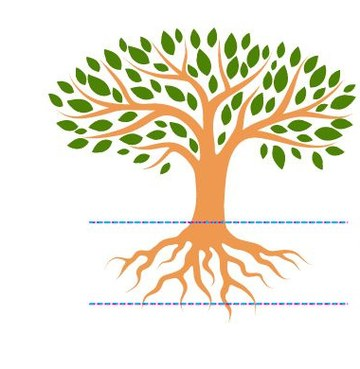
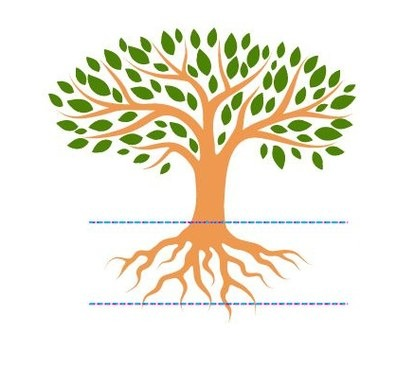
fix(pygmalion): 販売7月版の根っこ図を中央寄せ（説明会と同じ調整済み画像に差替）
右寄りの元画像(360x369)を、説明会で左右バランス調整済みの画像(413x369)に差替。
imgも340x304の中央表示に統一。UTAGE版も同期。

Changed region(s): [[0.0917, 0.0596, 1.0, 0.8645], [0.2139, 0.8049, 0.275, 0.8347], [0.2139, 0.5962, 0.275, 0.626]]

diff --git a/pygmalion-emiko-sales-202607/lp/index.html b/pygmalion-emiko-sales-202607/lp/index.html
@@ -117,7 +117,7 @@
 <section class="bg-white" id="urgency">
   <div class="container">
     <h2 class="section-title">世界で活躍できる「根っこ」は、<br><span class="teal">8歳までしか作れません</span></h2>
-    <img src="images/tree_growth.jpg" alt="子どもの成長を木に例えた図。0〜8歳で根っこを作る。" width="360" height="369" loading="lazy" style="width:100%;max-width:360px;margin:0 auto 24px">
+    <img src="images/tree_growth.jpg" alt="子どもの成長を木に例えた図。0〜8歳で根っこを作る。" width="340" height="304" loading="lazy" style="width:340px;height:auto;max-width:100%;margin:0 auto 24px">
     <div class="tree-steps">
       <div class="tree-step mama"><span class="tree-age">0〜4歳</span><span class="tree-label">学びの土壌（教育環境）を作る</span></div>
       <div class="tree-step mama"><span class="tree-age">4〜8歳</span><span class="tree-label">学びの根っこ・自主性を伸ばす</span></div>

diff --git a/pygmalion-emiko-sales-202607/utage/index.html b/pygmalion-emiko-sales-202607/utage/index.html
@@ -107,7 +107,7 @@
 <section class="bg-white" id="urgency">
   <div class="container">
     <h2 class="section-title">世界で活躍できる「根っこ」は、<br><span class="teal">8歳までしか作れません</span></h2>
-    <img src="https://tanakayuc.github.io/static-pages/pygmalion-emiko-sales-202607/lp/images/tree_growth.jpg" alt="子どもの成長を木に例えた図。0〜8歳で根っこを作る。" width="360" height="369" loading="lazy" style="width:100%;max-width:360px;margin:0 auto 24px">
+    <img src="https://tanakayuc.github.io/static-pages/pygmalion-emiko-sales-202607/lp/images/tree_growth.jpg" alt="子どもの成長を木に例えた図。0〜8歳で根っこを作る。" width="340" height="304" loading="lazy" style="width:340px;height:auto;max-width:100%;margin:0 auto 24px">
     <div class="tree-steps">
       <div class="tree-step mama"><span class="tree-age">0〜4歳</span><span class="tree-label">学びの土壌（教育環境）を作る</span></div>
       <div class="tree-step mama"><span class="tree-age">4〜8歳</span><span class="tree-label">学びの根っこ・自主性を伸ばす</span></div>